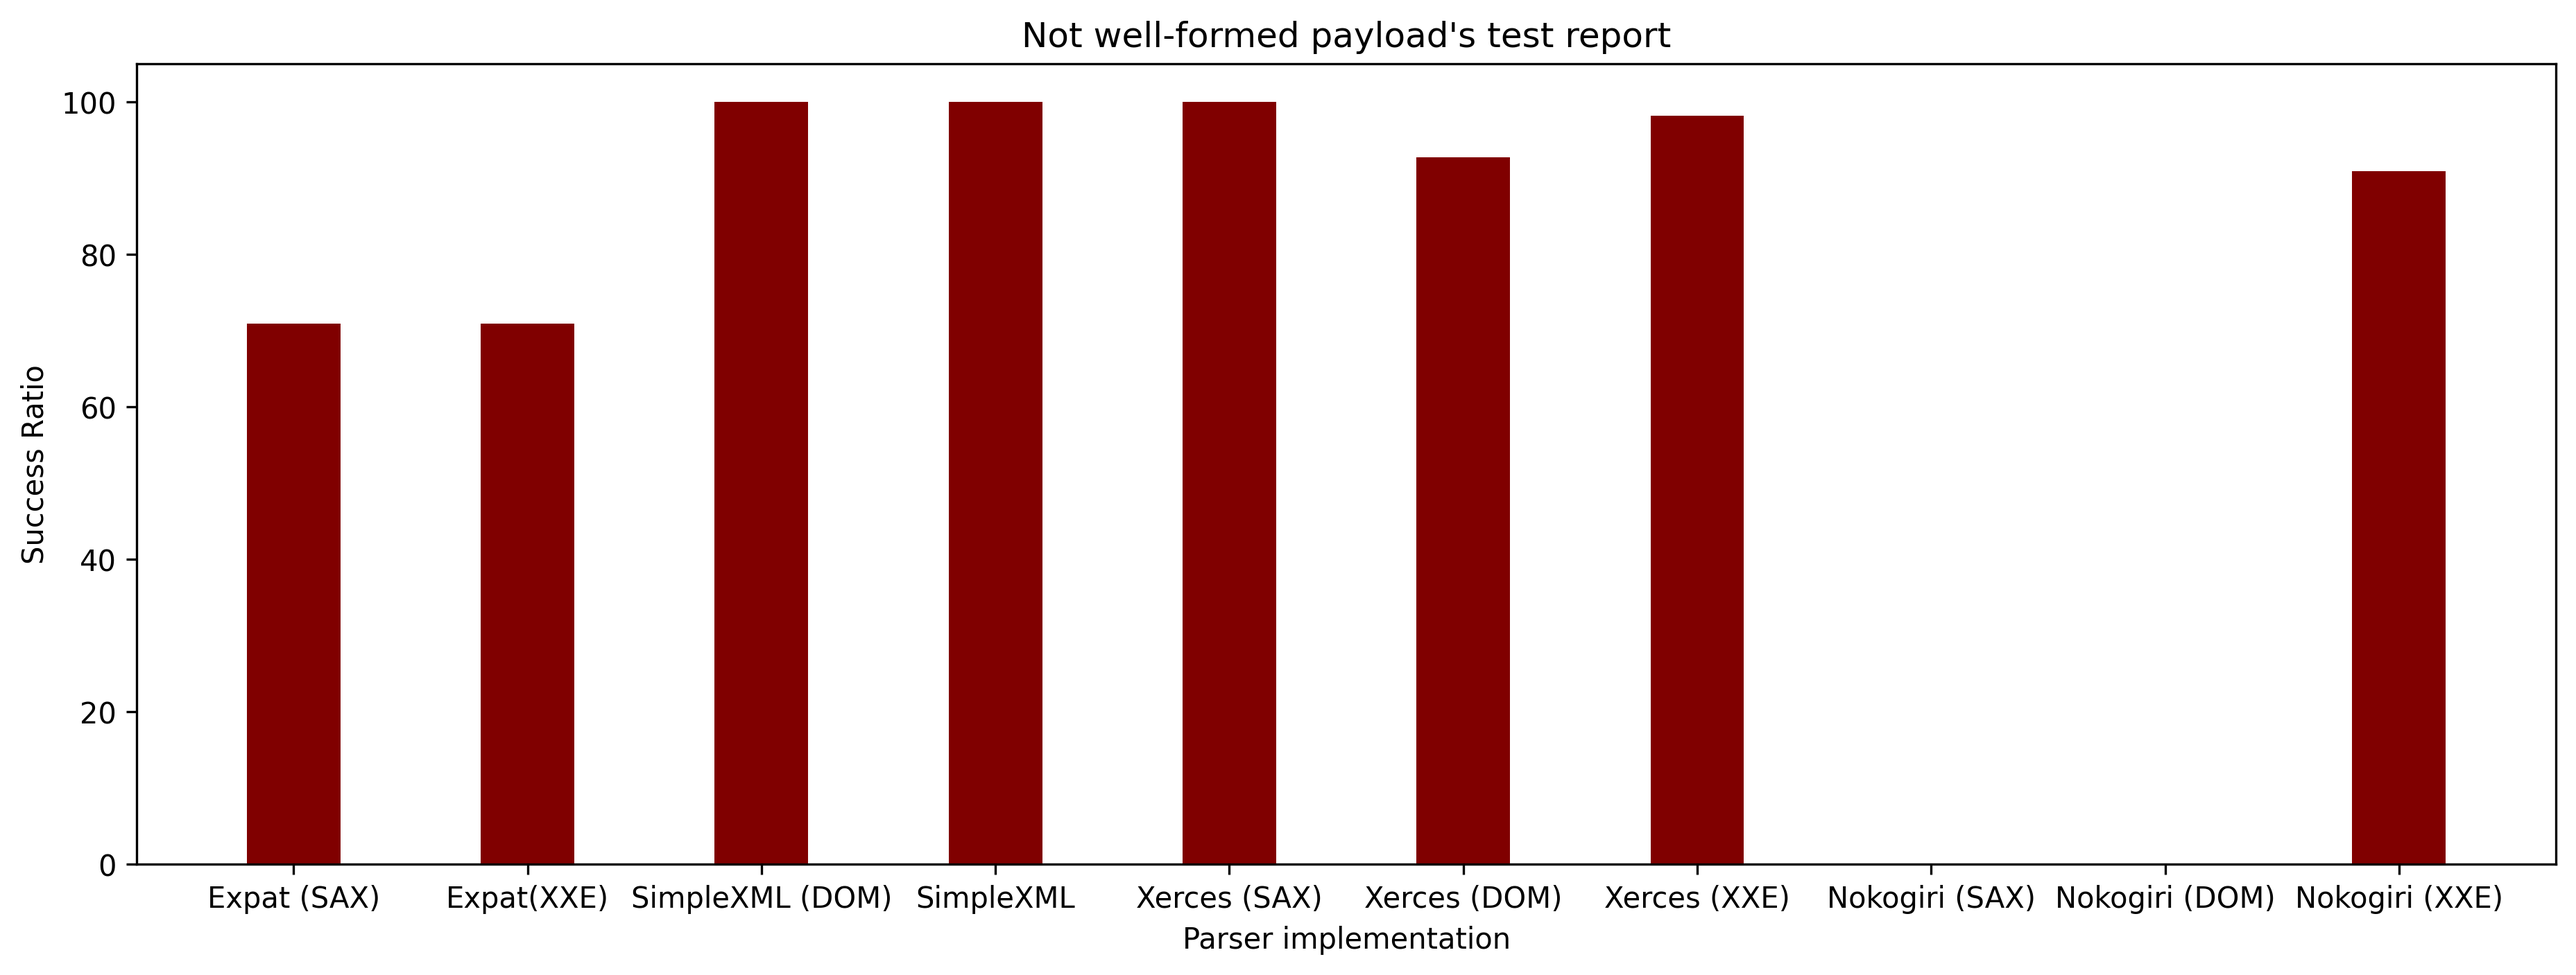
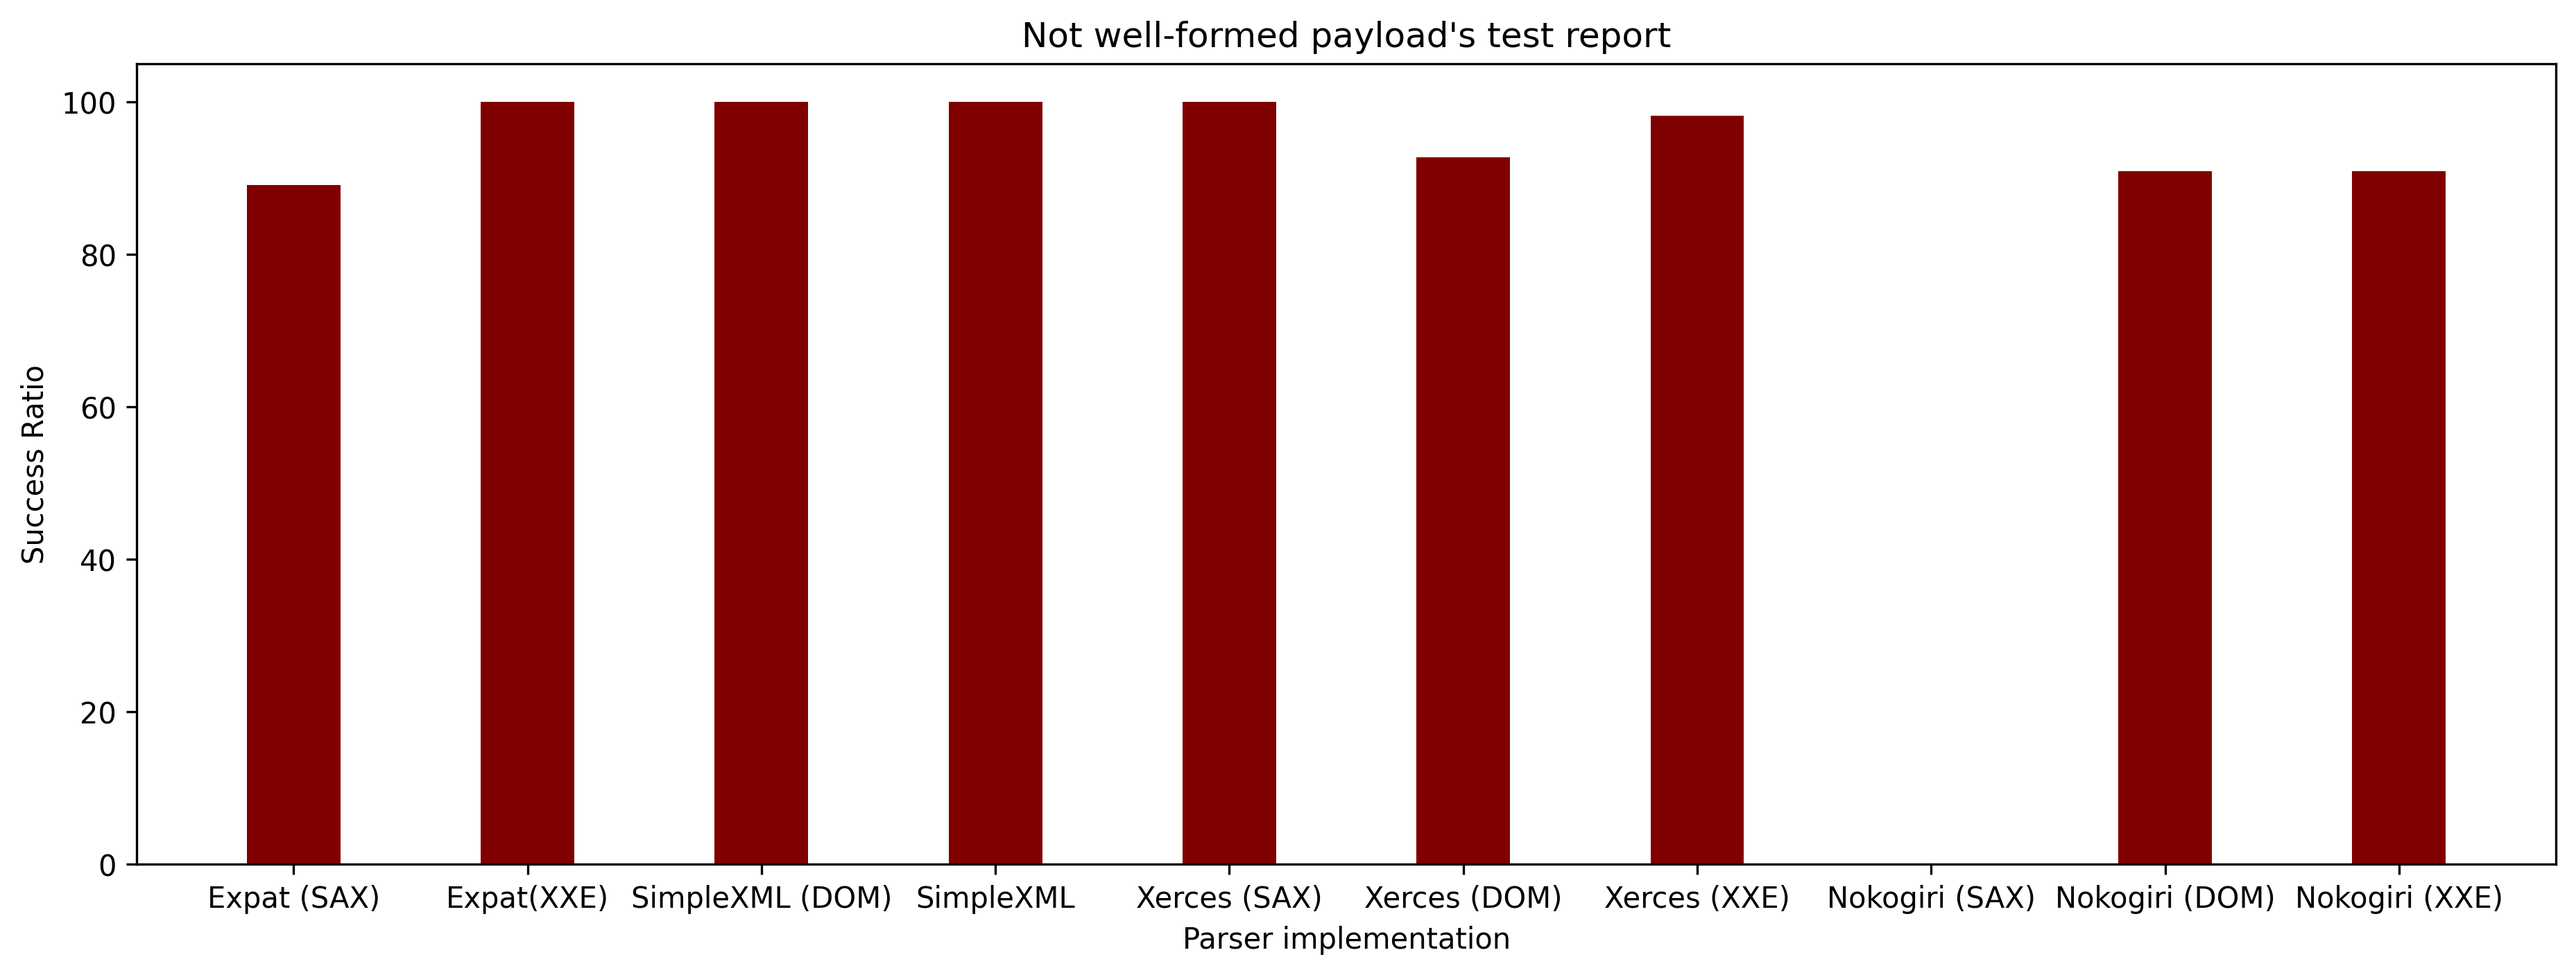
Test Analysis Correction

Changed region(s): [[0.8121, 0.1528, 0.8745, 0.8863], [0.1874, 0.0917, 0.2499, 0.3362], [0.0937, 0.1834, 0.1562, 0.3362]]

diff --git a/tests/binary_check.py b/tests/binary_check.py
@@ -32,9 +32,7 @@ def verif_error_expat(file):
     with open(file,'r') as f:
         data = f.read()
 
-    if "not well-formed" in data:
-        return True
-    if "unclosed token" in data:
+    if "Parse error" in data:
         return True
     else:
         return False
@@ -701,7 +699,7 @@ def check_nokogiri(verbose=True):
             valid_ctr_sax += 1
 
     valid_ctr_dom = 0
-    for answer in results_sax:
+    for answer in results_dom:
         if answer == True:
             valid_ctr_dom += 1
 
